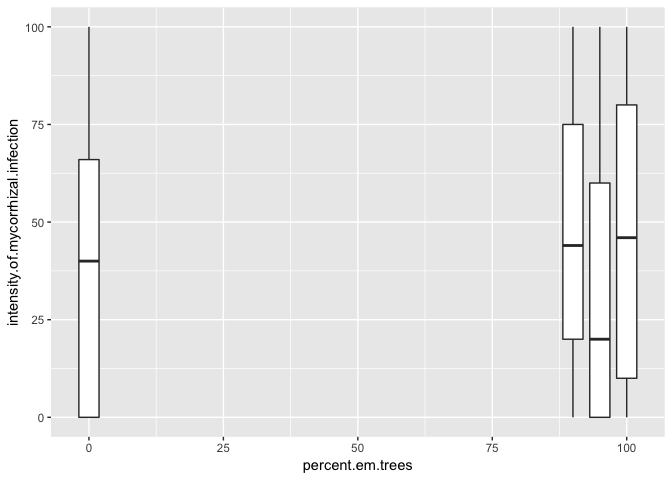
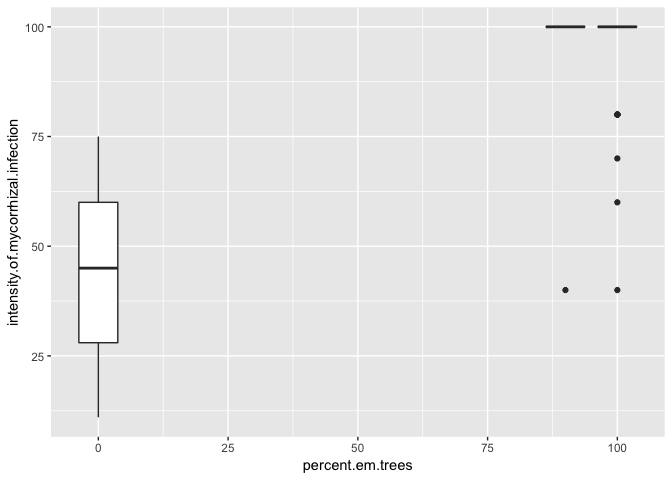
filter for EM intensity only

diff --git a/README.md b/README.md
@@ -1,10 +1,11 @@
 ---
-# Comparison of Mycorrhizal Intensity Metrics
-
-Clara Qin
-
-12/12/2018
-
+title: "Comparison of Mycorrhizal Intensity Metrics"
+author: "Clara Qin"
+date: "12/12/2018"
+output: 
+  html_document: 
+    keep_md: yes
+---
 
 
 
@@ -44,6 +45,7 @@ Combine myco and site datasets:
 
 ```r
 myco %>%
+  filter(mycorrhizal.type.modern=="Ectomycorrhiza ") %>%
   left_join(sites, by=c("site.number"="site")) -> myco_sites
 ```
 
@@ -58,7 +60,7 @@ myco_sites %>%
 ```
 
 ```
-## Warning: Removed 177 rows containing non-finite values (stat_boxplot).
+## Warning: Removed 13 rows containing non-finite values (stat_boxplot).
 ```
 
 ![](README_files/figure-html/unnamed-chunk-4-1.png)<!-- -->
